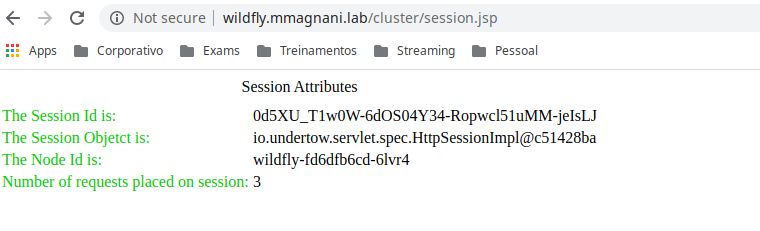
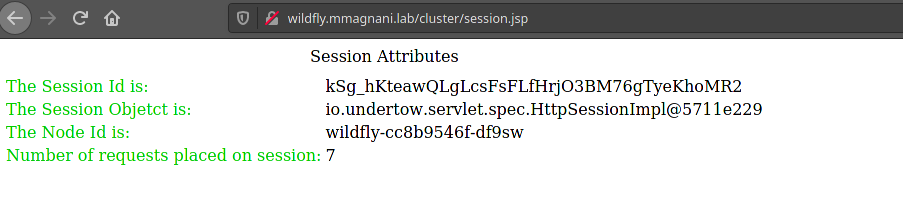
update wildfly kubernetes content

diff --git a/_posts/2020-01-04-k8s-ha-1.md b/_posts/2020-01-04-k8s-ha-1.md
@@ -16,17 +16,17 @@ I assume you already have a Kubernetes cluster so let's just focus on WildFly se
 The first step is to create a repository that will contain all our files:
 
 {% highlight bash %}
-[root@workstation ~]# mkdir wildfly18-kubeping
-[root@workstation ~]# mkdir -p wildfly18-kubeping/application
-[root@workstation ~]# mkdir -p wildfly18-kubeping/configuration
-[root@workstation ~]# mkdir -p wildfly18-kubeping/kubernetes
+[root@workstation ~]# mkdir wildfly20-kubeping
+[root@workstation ~]# mkdir -p wildfly20-kubeping/application
+[root@workstation ~]# mkdir -p wildfly20-kubeping/configuration
+[root@workstation ~]# mkdir -p wildfly20-kubeping/kubernetes
 {% endhighlight %}
 
 Then create Dockerfile with the necessary steps for image customization:
 
 {% highlight bash %}
-[root@workstation ~]# vi wildfly18-kubeping/Dockerfile
-FROM jboss/wildfly:18.0.1.Final
+[root@workstation ~]# vi wildfly20-kubeping/Dockerfile
+FROM jboss/wildfly:20.0.0.Final
 
 LABEL MAINTAINER Mauricio Magnani <msmagnanijr@gmail.com>
 
@@ -46,7 +46,7 @@ EXPOSE 8080 9990 7600 8888
 In the same directory, create the file "config-server.cli" which will contain the steps to configure kubeping correctly:
 
 {% highlight bash %}
-[root@workstation ~]# vi wildfly18-kubeping/configuration/config-server.cli
+[root@workstation ~]# vi wildfly20-kubeping/configuration/config-server.cli
 ###start the server in admin-only mode, using/modifying standalone-full-ha.xml
 embed-server --server-config=standalone-full-ha.xml --std-out=echo
 
@@ -72,13 +72,13 @@ stop-embedded-server
 Now put the "package of your application" to the directory "application"
 
 {% highlight bash %}
-[root@workstation ~]# cp cluster.war wildfly18-kubeping/application
+[root@workstation ~]# cp cluster.war wildfly20-kubeping/application
 {% endhighlight %}
 
-The next step is to create all Kubernetes objects so we can do the tests later(ps: I'm using the namespace "labs"):
+The next step is to create all Kubernetes objects so we can do the tests later. I'm using the namespace "labs":
 
 {% highlight yaml %}
-[root@workstation ~]# vi wildfly18-kubeping/kubernetes/01-wildfly-sa-role.yaml
+[root@workstation ~]# vi wildfly20-kubeping/kubernetes/01-wildfly-sa-role.yaml
 
 apiVersion: v1
 kind: ServiceAccount
@@ -109,7 +109,7 @@ subjects:
   name: jgroups-kubeping-service-account
   namespace: labs
 
-[root@workstation ~]# vi wildfly18-kubeping/kubernetes/02-wildfly-deployment.yaml
+[root@workstation ~]# vi wildfly20-kubeping/kubernetes/02-wildfly-deployment.yaml
 
 apiVersion: apps/v1
 kind: Deployment
@@ -134,7 +134,7 @@ spec:
       serviceAccountName: jgroups-kubeping-service-account
       containers:
         - name: kube-ping
-          image: mmagnani/wildfly18-kubeping:latest
+          image: mmagnani/wildfly20-kubeping:latest
           command: ["/opt/jboss/wildfly/bin/standalone.sh"]
           args: ["--server-config", "standalone-full-ha.xml", "-b", $(POD_IP), "-bmanagement", $(POD_IP) ,"-bprivate", $(POD_IP) ]
           resources:
@@ -161,8 +161,10 @@ spec:
                   fieldPath: metadata.namespace
             - name: KUBERNETES_LABELS 
               value: app=wildfly
+            - name: JAVA_OPTS
+              value: -Djdk.tls.client.protocols=TLSv1.2
 
-[root@workstation ~]# vi wildfly18-kubeping/kubernetes/03-wildfly-service.yaml
+[root@workstation ~]# vi wildfly20-kubeping/kubernetes/03-wildfly-service.yaml
 
 apiVersion: v1
 kind: Service
@@ -181,7 +183,7 @@ spec:
     app: wildfly
     tier: devops
 
-[root@workstation ~]# vi wildfly18-kubeping/kubernetes/04-wildfly-ingress.yaml
+[root@workstation ~]# vi wildfly20-kubeping/kubernetes/04-wildfly-ingress.yaml
 
 ---
 apiVersion: extensions/v1beta1
@@ -204,39 +206,32 @@ spec:
 Now just run the image build and push this to the docker hub or any other "registry":
 
 {% highlight bash %}
-[root@workstation ~]# docker build -t mmagnani/wildfly18-kubeping:latest . 
-[root@workstation ~]# docker push mmagnani/wildfly18-kubeping
+[root@workstation ~]# docker build -t mmagnani/wildfly20-kubeping:latest . 
+[root@workstation ~]# docker push mmagnani/wildfly20-kubeping
 {% endhighlight %}
 
 In the context of your Kubernetes cluster just create those objects:
 
 {% highlight bash %}
 [root@k8s-master kubernetes]# kubelet --version
-Kubernetes v1.16.1
+Kubernetes v1.18.3
 [root@k8s-master kubernetes]# pwd
-/root/workspace/wildfly18-kubeping/kubernetes
-[root@k8s-master kubernetes]# kubectl create -f .
+/root/wildfly20-kubeping/kubernetes
+[root@k8s-master kubernetes]# kubectl create -f . -n labs
 [root@k8s-master kubernetes]# kubectl get pods -n labs
 NAME                      READY   STATUS    RESTARTS   AGE
-wildfly-fd6dfb6cd-nm4pf   1/1     Running   0          28m
-wildfly-fd6dfb6cd-vvzwh   1/1     Running   0          28m
+wildfly-cc8b9546f-df9sw   1/1     Running   0          48s
+wildfly-cc8b9546f-scfdp   1/1     Running   0          48s
 {% endhighlight %}
 
 Check the logs, you should find two members as we only define 2 replicas:
 
 {% highlight bash %}
-[root@k8s-master kubernetes]# kubectl logs -f wildfly-fd6dfb6cd-nm4pf -n labs
+[root@k8s-master kubernetes]# kubectl logs -f wildfly-cc8b9546f-df9sw -n labs
 
-13:15:39,705 INFO  [org.jboss.as] (Controller Boot Thread) WFLYSRV0025: WildFly Full 18.0.1.Final (WildFly Core 10.0.3.Final) started in 10972ms - Started 570 of 776 services (477 services are lazy, passive or on-demand)
-13:16:17,782 INFO  [org.infinispan.CLUSTER] (thread-5,null,wildfly-fd6dfb6cd-6lvr4) ISPN000094: Received new cluster view for channel kubernetes: [wildfly-fd6dfb6cd-6lvr4|1] (2) [wildfly-fd6dfb6cd-6lvr4, wildfly-fd6dfb6cd-zw6j2]
-13:16:17,786 INFO  [org.infinispan.CLUSTER] (thread-5,null,wildfly-fd6dfb6cd-6lvr4) ISPN100000: Node wildfly-fd6dfb6cd-zw6j2 joined the cluster
-13:16:17,788 INFO  [org.infinispan.CLUSTER] (thread-5,null,wildfly-fd6dfb6cd-6lvr4) ISPN000094: Received new cluster view for channel kubernetes: [wildfly-fd6dfb6cd-6lvr4|1] (2) [wildfly-fd6dfb6cd-6lvr4, wildfly-fd6dfb6cd-zw6j2]
-13:16:17,788 INFO  [org.infinispan.CLUSTER] (thread-5,null,wildfly-fd6dfb6cd-6lvr4) ISPN100000: Node wildfly-fd6dfb6cd-zw6j2 joined the cluster
-13:16:17,789 INFO  [org.infinispan.CLUSTER] (thread-5,null,wildfly-fd6dfb6cd-6lvr4) ISPN000094: Received new cluster view for channel kubernetes: [wildfly-fd6dfb6cd-6lvr4|1] (2) [wildfly-fd6dfb6cd-6lvr4, wildfly-fd6dfb6cd-zw6j2]
-13:16:17,790 INFO  [org.infinispan.CLUSTER] (thread-5,null,wildfly-fd6dfb6cd-6lvr4) ISPN100000: Node wildfly-fd6dfb6cd-zw6j2 joined the cluster
-13:16:17,790 INFO  [org.infinispan.CLUSTER] (thread-5,null,wildfly-fd6dfb6cd-6lvr4) ISPN000094: Received new cluster view for channel kubernetes: [wildfly-fd6dfb6cd-6lvr4|1] (2) [wildfly-fd6dfb6cd-6lvr4, wildfly-fd6dfb6cd-zw6j2]
-13:16:17,790 INFO  [org.infinispan.CLUSTER] (thread-5,null,wildfly-fd6dfb6cd-6lvr4) ISPN100000: Node wildfly-fd6dfb6cd-zw6j2 joined the cluster
-13:16:18,758 INFO  [org.infinispan.CLUSTER] (remote-thread--p3-t1) [Context=default-server] ISPN100002: Starting rebalance with members [wildfly-fd6dfb6cd-6lvr4, wildfly-fd6dfb6cd-zw6j2], phase READ_OLD_WRITE_ALL, topology id 2
+14:23:33,253 INFO  [org.infinispan.CLUSTER] (MSC service thread 1-2) ISPN000078: Starting JGroups channel kubernetes
+14:23:33,253 INFO  [org.infinispan.CLUSTER] (MSC service thread 1-2) ISPN000094: Received new cluster view for channel kubernetes: [wildfly-cc8b9546f-scfdp|1] (2) [wildfly-cc8b9546f-scfdp, wildfly-cc8b9546f-df9sw]
+
 {% endhighlight %}
 
 As I am using "Traefik" my "ingress" is available:
@@ -246,23 +241,3 @@ As I am using "Traefik" my "ingress" is available:
 In the application it is also possible to add object to the session:
 
 ![](/images/202001-kubeha-02.png)
-
-All files are available in the repository: https://github.com/msmagnanijr/wildfly18-kubeping.git
-
-## Issue on Kubernetes 1.17
-
-Unfortunately these settings will not work in Kubernetes 1.17 as there is a mismatch between TLS 1.3 Kubernetes/Golang and TLS 1.2 from Java/WildFly. In the logs you will see something like this:
-
-{% highlight bash %}
-12:39:26,943 WARN  [org.jgroups.protocols.kubernetes.KUBE_PING] (thread-10,kubernetes,wildfly-deployment-f8d595bb5-s6ljn) failed getting JSON response from Kubernetes Client[masterUrl=https://kubernetes.default.svc:443/api/v1, headers={Authorization=#MASKED:999#}, connectTimeout=5000, readTimeout=30000, operationAttempts=3, operationSleep=1000, streamProvider=org.jgroups.protocols.kubernetes.stream.InsecureStreamProvider@39127235] for cluster [kubernetes], namespace [labs], labels [app=wildfly]; encountered [java.lang.Exception: 3 attempt(s) with a 1000ms sleep to execute [OpenStream] failed. Last failure was [javax.net.ssl.SSLHandshakeException: extension (5) should not be presented in certificate_request]]
-{% endhighlight %}
-
-For more information please check:
-
-* https://bugs.openjdk.java.net/browse/JDK-8234949
-* https://github.com/golang/go/issues/35722
-
-
-If you have any questions or suggestions let me know.
-
-Best,
